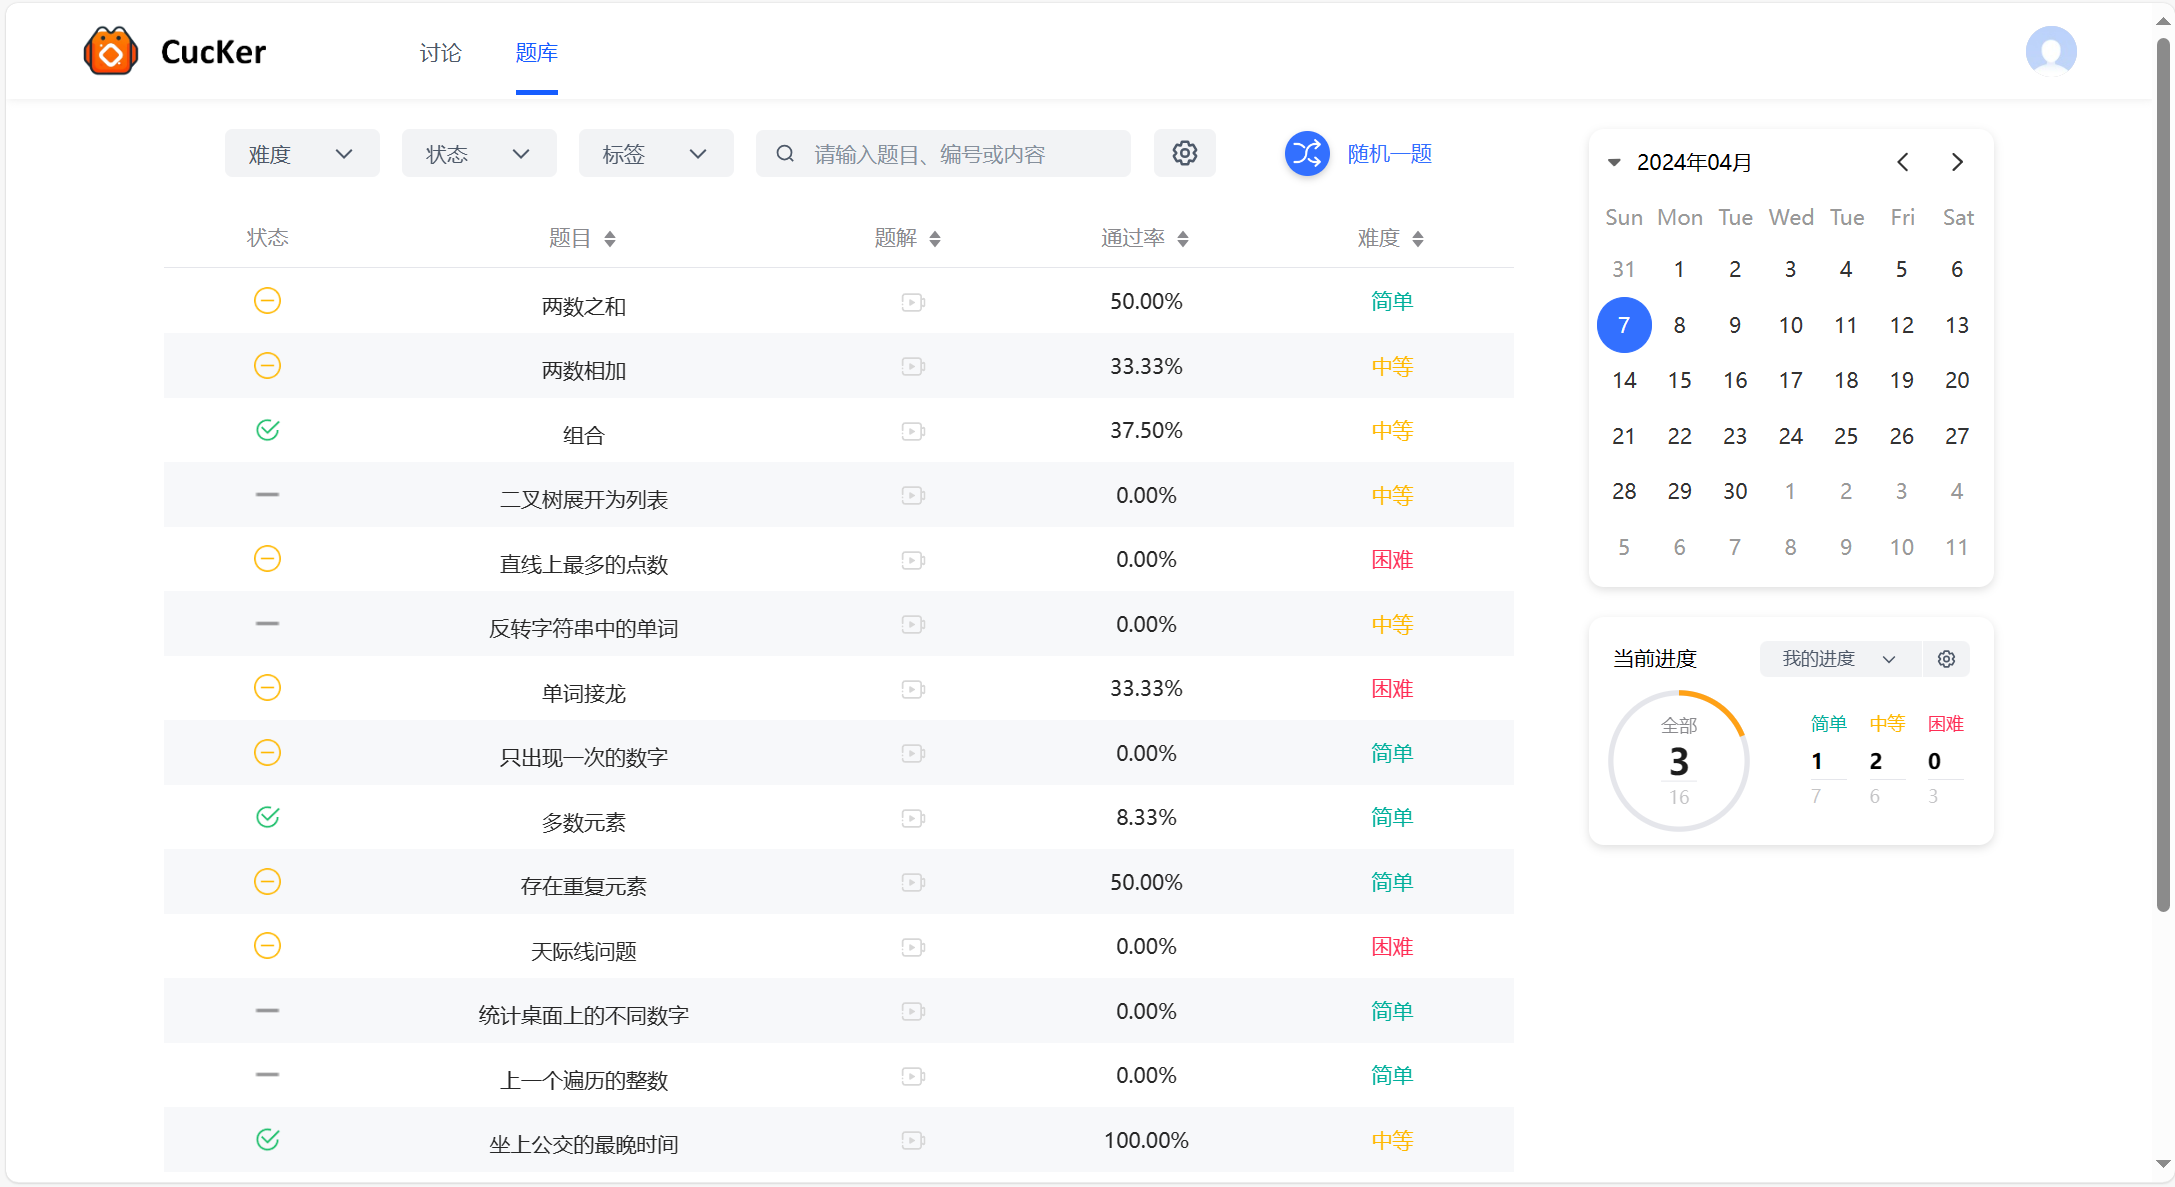
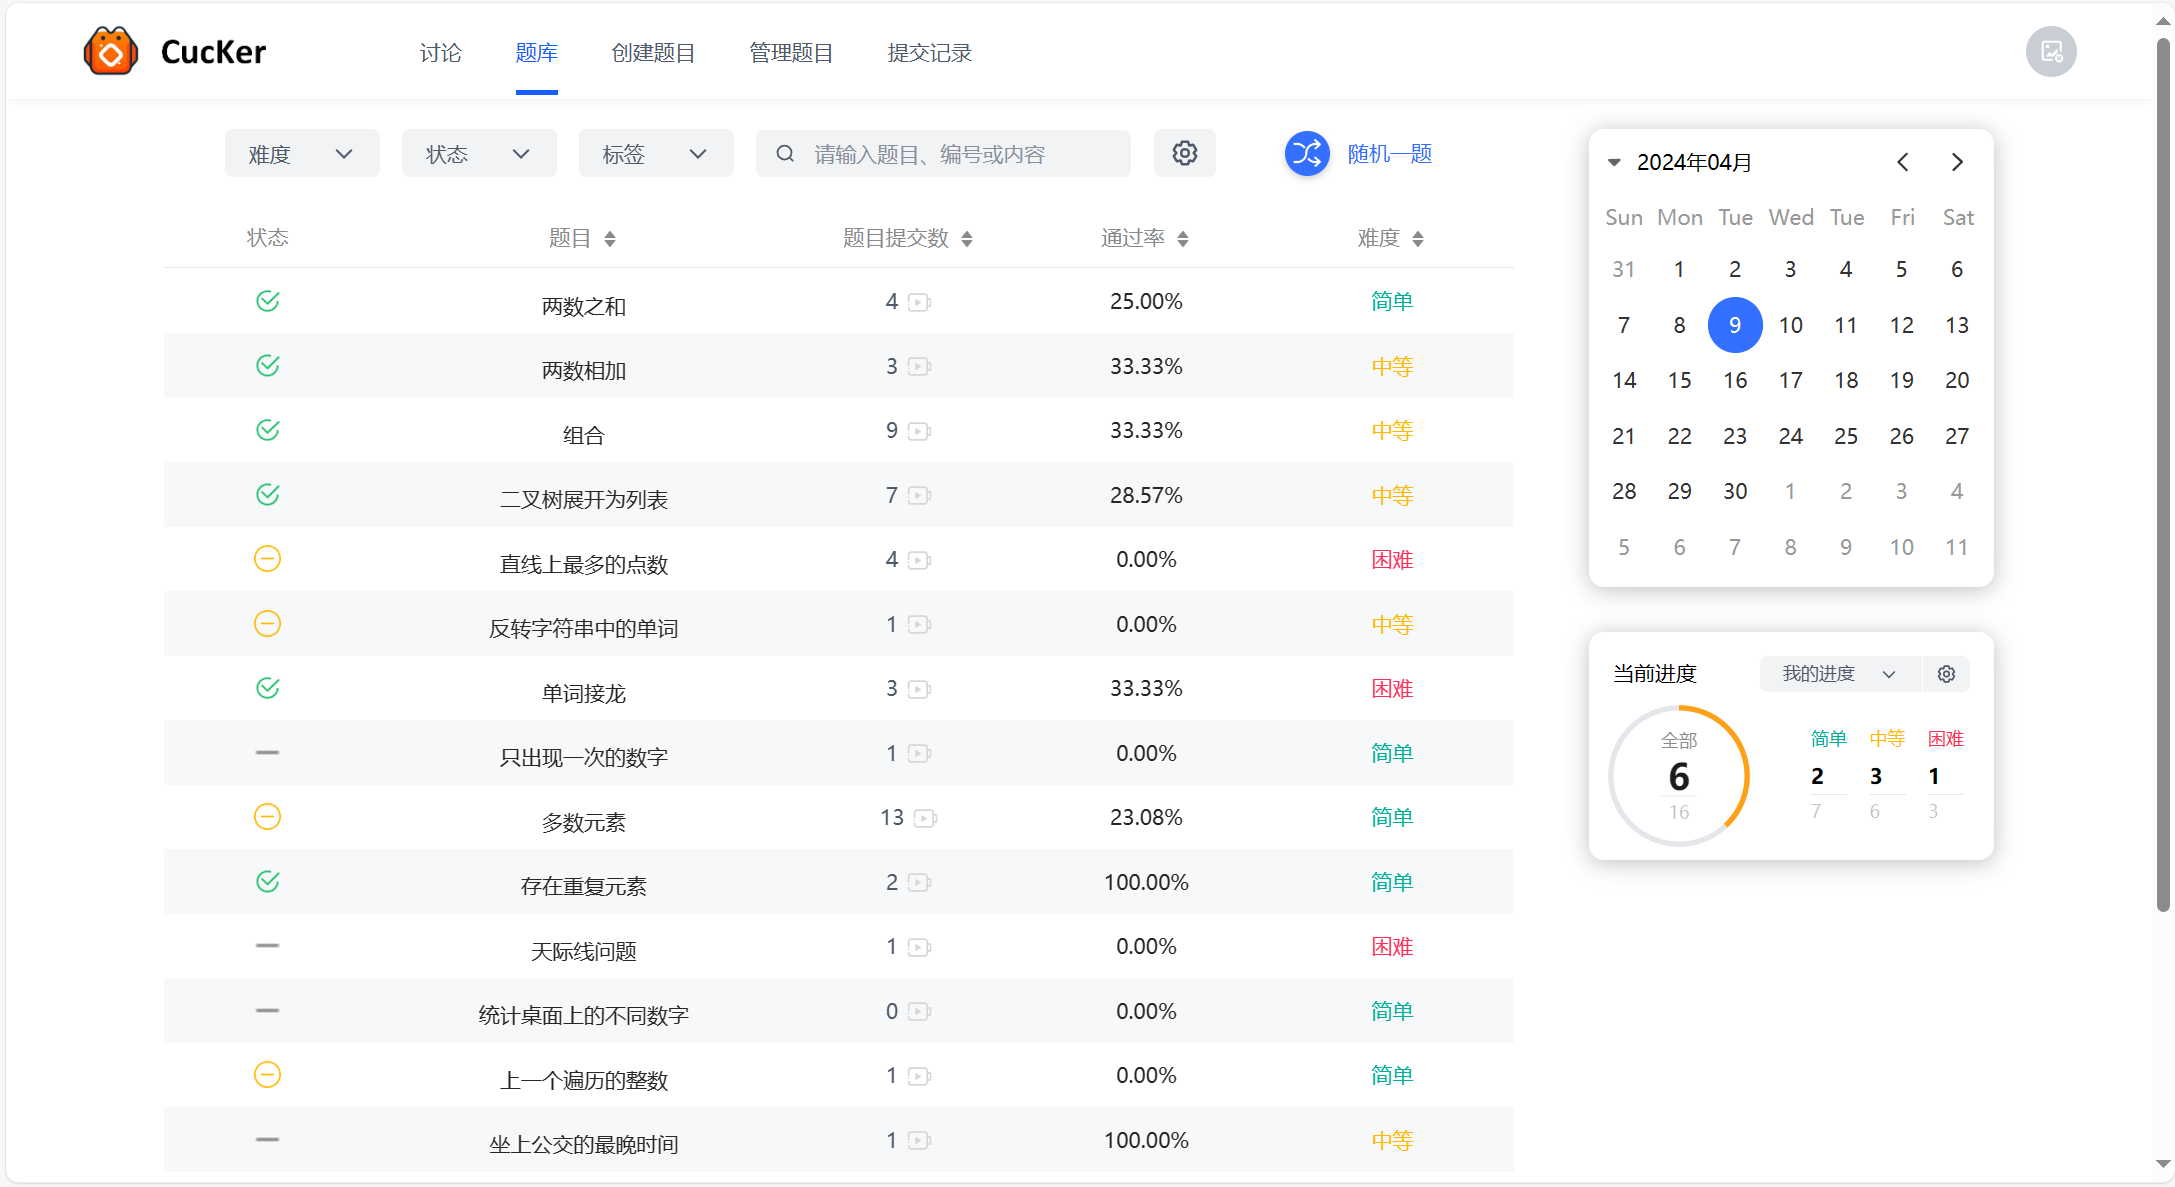
update

diff --git a/src/views/question/QuestionsView.vue b/src/views/question/QuestionsView.vue
@@ -900,7 +900,7 @@
                 </div>
                 <div style="width: 136px; display: flex; color: #8a8a8e">
                   <button class="custom-but" style="justify-content: center">
-                    <span style="margin-right: 6px">题解</span>
+                    <span style="margin-right: 6px">题目提交数</span>
                     <a-space direction="vertical" :size="-11">
                       <icon-caret-up :size="12" />
                       <icon-caret-down :size="12" />
@@ -1057,7 +1057,7 @@
                               </a-space>
                             </a-space>
                           </div>
-                          <!-- 题解 -->
+                          <!-- 题目提交数 -->
                           <div
                             style="
                               width: 136px;
@@ -1066,6 +1066,7 @@
                               justify-content: center;
                             "
                           >
+                            {{ item.submitNum }}
                             <icon-player
                               size="18"
                               style="margin-left: 5px; margin-top: 2px"
@@ -1196,7 +1197,7 @@
                 width: 270px;
                 height: 152px;
                 border-radius: 10px;
-                box-shadow: 0 2px 6px rgba(0, 0, 0, 0.125);
+                box-shadow: 0 2px 15px rgba(0, 0, 0, 0.25);
               "
             >
               <!-- 当前进度 -->
@@ -2485,9 +2486,9 @@ const closeTagsList = () => {
   display: flex;
   flex-direction: column;
   width: 260px;
-  box-shadow: 0 2px 6px rgba(0, 0, 0, 0.125);
+  box-shadow: 0 2px 15px rgba(0, 0, 0, 0.25);
   margin-left: 10px;
-  margin-bottom: 20px;
+  margin-bottom: 30px;
   border-radius: 10px;
   padding: 5px;
 }
